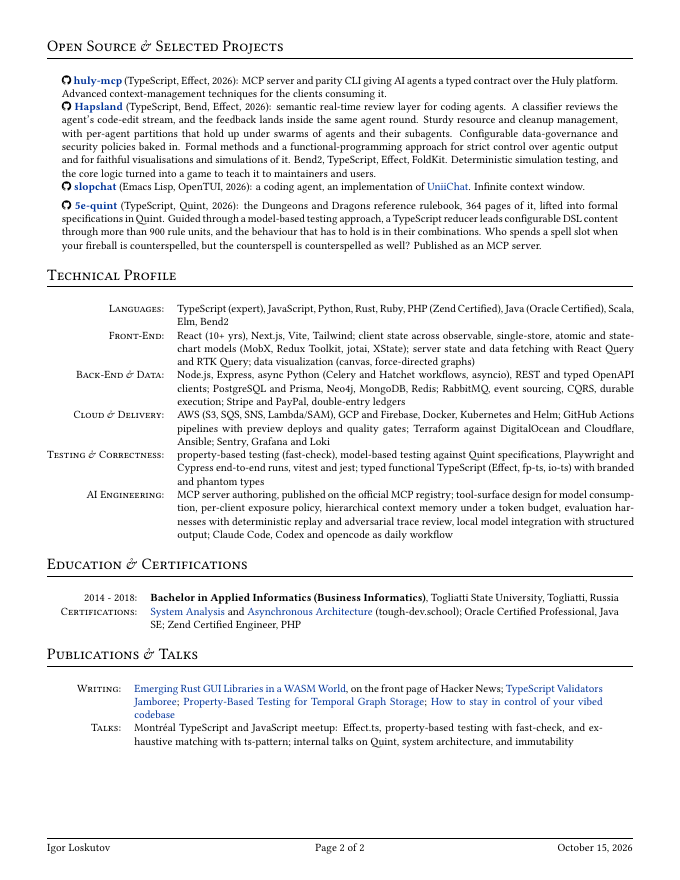
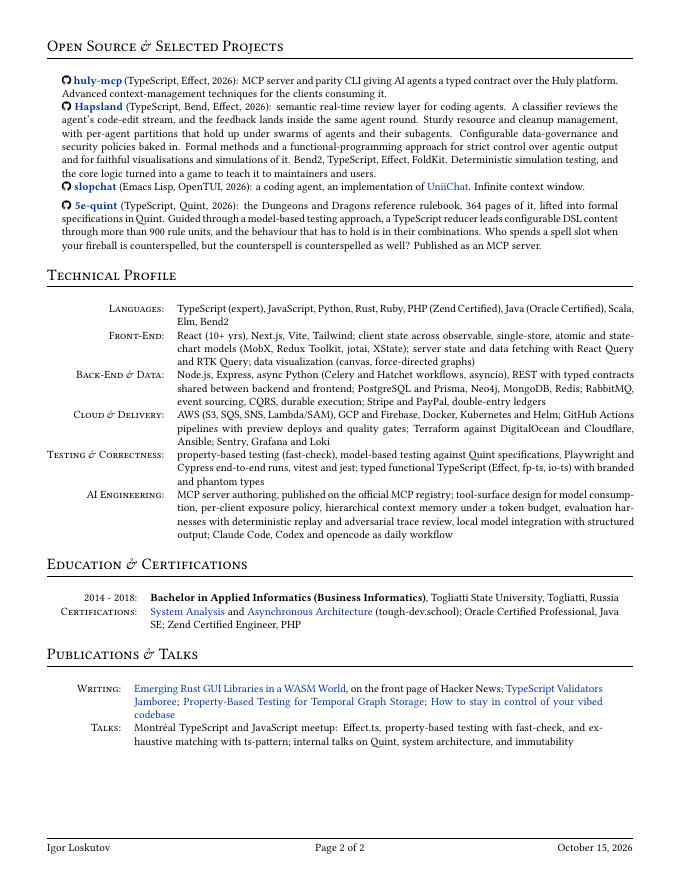
Describe API typing as a shared contract

Changed region(s): [[0.2471, 0.3989, 0.9265, 0.4602]]

diff --git a/cv.tex b/cv.tex
@@ -99,7 +99,7 @@
 \begin{longtable}{@{}r p{0.78\textwidth}@{}}
   \textsc{Languages:}& TypeScript (expert), JavaScript, Python, Rust, Ruby, PHP (Zend Certified), Java (Oracle Certified), Scala, Elm, Bend2\\
   \textsc{Front-End:}& React (10+ yrs), Next.js, Vite, Tailwind; client state across observable, single-store, atomic and statechart models (MobX, Redux Toolkit, jotai, XState); server state and data fetching with React Query and RTK Query; data visualization (canvas, force-directed graphs)\\
-  \textsc{Back-End \& Data:}& Node.js, Express, async Python (Celery and Hatchet workflows, asyncio), REST and typed OpenAPI clients; PostgreSQL and Prisma, Neo4j, MongoDB, Redis; RabbitMQ, event sourcing, CQRS, durable execution; Stripe and PayPal, double-entry ledgers\\
+  \textsc{Back-End \& Data:}& Node.js, Express, async Python (Celery and Hatchet workflows, asyncio), REST with typed contracts shared between backend and frontend; PostgreSQL and Prisma, Neo4j, MongoDB, Redis; RabbitMQ, event sourcing, CQRS, durable execution; Stripe and PayPal, double-entry ledgers\\
   \textsc{Cloud \& Delivery:}& AWS (S3, SQS, SNS, Lambda/SAM), GCP and Firebase, Docker, Kubernetes and Helm; GitHub Actions pipelines with preview deploys and quality gates; Terraform against DigitalOcean and Cloudflare, Ansible; Sentry, Grafana and Loki\\
   \textsc{Testing \& Correctness:}& property-based testing (fast-check), model-based testing against Quint specifications, Playwright and Cypress end-to-end runs, vitest and jest; typed functional TypeScript (Effect, fp-ts, io-ts) with branded and phantom types\\
   \textsc{AI Engineering:}& MCP server authoring, published on the official MCP registry; tool-surface design for model consumption, per-client exposure policy, hierarchical context memory under a token budget, evaluation harnesses with deterministic replay and adversarial trace review, local model integration with structured output; Claude Code, Codex and opencode as daily workflow\\
